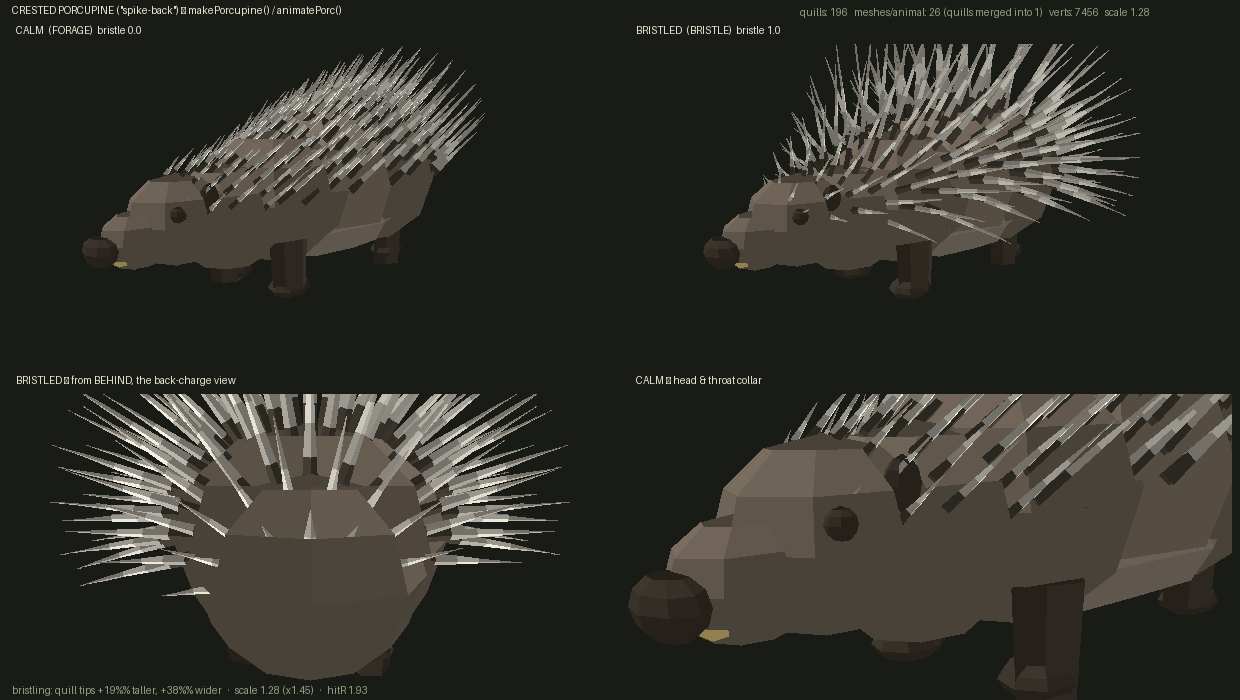
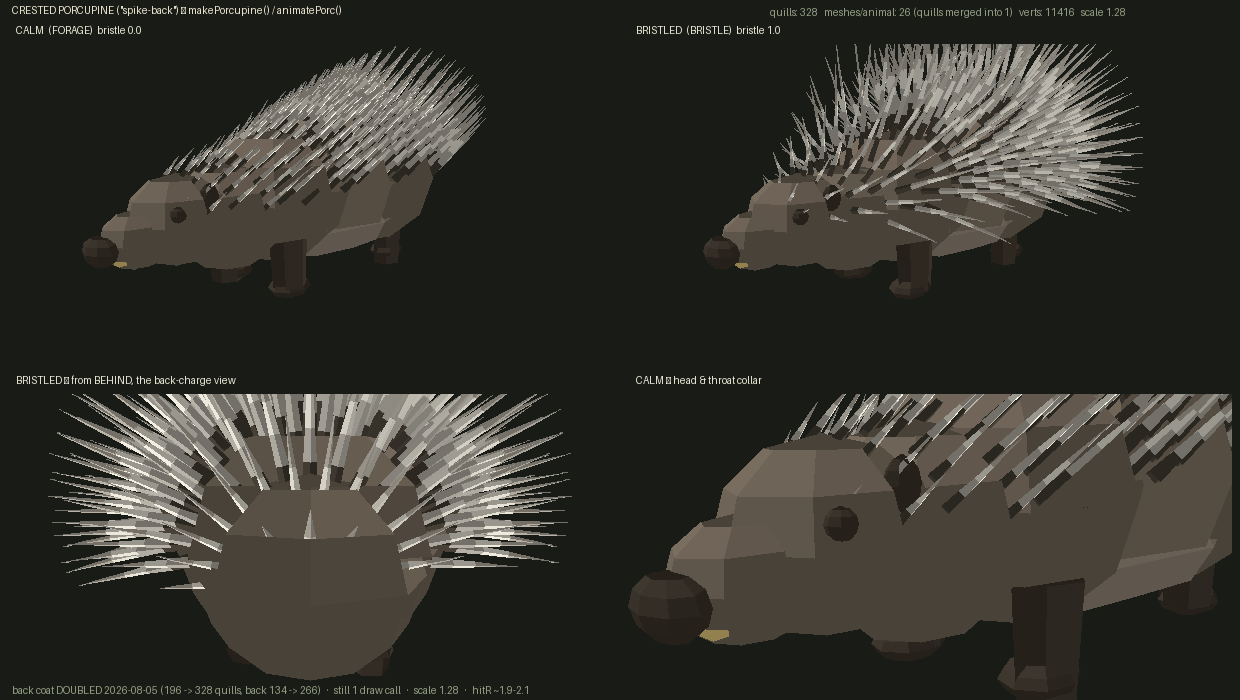
porcupine: double the BACK coat, 196 -> 328 quills, still one draw call
Steven played the 196-quill build and the back still read sparse (crown and
crest were fine), so the increase is confined to the back/sides/rump band:
134 -> 266 over the exact same z span. Doubled on BOTH axes — 10 rows -> 14
and ~x1.41 per row — because doubling one axis alone leaves either visible
bands of bare skin or gaps around the circumference.

The merged-coat strategy is what makes this cheap to keep saying yes to:
still 1 draw call, still 26 meshes/animal. Worst case (all six bristling at
60fps) goes 2.75% -> 4.41% of frame budget, linear in quill count; calm is
still free. Bounding-sphere x1.35 re-verified rather than assumed — flaring
rotates quills without lengthening them, so 1.0036 would do.

Drive-by: deleted a stale duplicated QUILL_BANDS comment that claimed SEVEN
rings next to the paragraph that correctly says six.

diff --git a/index.html b/index.html
@@ -2033,13 +2033,6 @@ const PORC = {
 // ⚠ keep=true on BOTH halves: this pair is a module singleton like FLASH_MAT, not per-animal
 // state, so disposeObject3D must never free it out from under the other five porcupines.
 // (Same rule, same reason, as the shared Sprite geometry the HP bars rely on.)
-// ⚠ SEVEN rings, not five, and the flat runs are DOUBLED UP. Vertex colours are Gouraud-
-// interpolated up the shaft, so any colour given a single ring averages away into its
-// neighbours — the first cut of this read as a uniformly pale needle with a dirty root. A
-// value only holds if it spans a whole SEGMENT, i.e. two adjacent rings of the same colour.
-// Hence: solid dark root, solid cream shaft, one dark band, and a solid PALE OUTER THIRD.
-// The pale tip is the half that matters — it is what separates a quill from the dark pelt
-// behind it at any distance you actually fight this animal from.
 // ⚠ SIX rings, and the flat runs are DOUBLED UP. Vertex colours are Gouraud-interpolated up
 // the shaft, so any colour given a single ring averages away into its neighbours — an early
 // cut read as a uniformly pale needle with a dirty root. A value only holds if it spans a
@@ -2050,7 +2043,7 @@ const QUILL_BANDS = [0x120f0b, 0x120f0b, 0xf0e6cc, 0xefe4c8, 0x171009, 0xf7f0dc]
 // The TEMPLATE quill: radius 1, height 1, root at y=0, tip at y=1. Never added to a scene and
 // never disposed — it is a stamp that makePorcupine copies vertices out of, not a live asset.
 // 4 sides × 5 stacks, no end caps: 30 verts / 40 tris. At the size a quill occupies on screen
-// 4 sides is indistinguishable from 8, and it is multiplied by ~190 per animal.
+// 4 sides is indistinguishable from 8, and it is multiplied by ~330 per animal.
 const QUILL_TPL = (function(){
   const g = new THREE.ConeGeometry(1, 1, 4, 5, true);
   g.translate(0, 0.5, 0);
@@ -2066,10 +2059,14 @@ const QUILL_MAT = new THREE.MeshLambertMaterial({vertexColors:true});
 QUILL_MAT.userData.keep = true;
 
 // ⚠ THE WHOLE QUILL FIELD IS **ONE MESH**, not one mesh per quill.
-// Steven asked for the animal to be *covered* — ~190 quills instead of 64. At one mesh each
-// that is 190 draw calls per animal and 1,140 for a sextet, which is not affordable next to a
+// Steven asked for the animal to be *covered* — ~330 quills instead of 64. At one mesh each
+// that is 330 draw calls per animal and ~2,000 for a sextet, which is not affordable next to a
 // scene that already runs ~3,800. So the quills are stamped into a single merged BufferGeometry:
-// **1 draw call for the entire coat**, and the count becomes essentially free.
+// **1 draw call for the entire coat**, and the count becomes essentially free. THIS is what
+// makes "just add more quills" a cheap request to keep saying yes to — the 2026-08-05 back pass
+// went 196 → 328 for no extra draw calls at all.
+// ⚠ The merged index buffer is a **Uint16Array**, so the whole coat is capped at 65535/30 =
+// **2,184 quills**. Far away, but it is a silent wrap rather than an error if it is ever passed.
 //
 // The cost of merging is that a quill can no longer be posed by rotating its own Group. But the
 // bristle pose is a pure function of ONE scalar, so both extremes are baked at build time
@@ -2212,16 +2209,31 @@ function makePorcupine(x, z){
   row( 0.54,11, 0.66, 0.016, 1.02, 1.32, 0.04, false);
   row( 0.42,12, 0.72, 0.017, 1.00, 1.35, 0.05, true);
   // BACK, SIDES AND RUMP — the thick banded quills, densest and longest over the hips.
-  row( 0.28,13, 0.52, 0.023, 0.96, 1.38, 0.04, false);
-  row( 0.14,14, 0.58, 0.025, 0.94, 1.40, 0.04, true);
-  row( 0.00,14, 0.63, 0.026, 0.92, 1.42, 0.05, false);
-  row(-0.14,15, 0.68, 0.027, 0.90, 1.44, 0.05, true);
-  row(-0.29,15, 0.72, 0.028, 0.90, 1.45, 0.05, false);
-  row(-0.43,15, 0.74, 0.028, 0.90, 1.45, 0.05, true);
-  row(-0.57,15, 0.73, 0.028, 0.91, 1.44, 0.05, false);
-  row(-0.70,13, 0.66, 0.027, 0.94, 1.40, 0.04, true);
-  row(-0.82,11, 0.54, 0.025, 0.99, 1.34, 0.04, false);
-  row(-0.92, 9, 0.40, 0.023, 1.06, 1.26, 0.03, true);
+  // ⚠ 2026-08-05, Steven played the 196-quill build and still read the BACK as sparse
+  // (crown and crest were fine). Density here is DOUBLED — 134 → 266 quills over the exact
+  // same z span and the same thMax wrap, so it is genuinely twice the coat on the same body,
+  // not a bigger coat. ⚠ Doubled on BOTH axes rather than one: 10 rows → 14 (z spacing 0.135
+  // → 0.092) AND ~×1.41 quills per row. Doubling only the per-row count leaves the rows as
+  // visible bands with bare skin between them; doubling only the rows leaves visible gaps
+  // around the circumference. √2 on each keeps the spacing isotropic, which is what actually
+  // reads as fur rather than as a comb.
+  // ⚠ The stagger flag MUST keep alternating down this list — with rows this close together,
+  // un-staggered neighbours line the quills up into columns (corduroy) far more obviously
+  // than they did at half the density.
+  row( 0.28,18, 0.520, 0.0230, 0.96, 1.38, 0.04, false);
+  row( 0.19,19, 0.555, 0.0240, 0.95, 1.39, 0.04, true);
+  row( 0.10,20, 0.585, 0.0250, 0.94, 1.40, 0.04, false);
+  row( 0.00,20, 0.630, 0.0260, 0.92, 1.42, 0.05, true);
+  row(-0.09,21, 0.655, 0.0265, 0.91, 1.43, 0.05, false);
+  row(-0.18,21, 0.685, 0.0270, 0.90, 1.44, 0.05, true);
+  row(-0.28,21, 0.715, 0.0280, 0.90, 1.45, 0.05, false);
+  row(-0.37,21, 0.730, 0.0280, 0.90, 1.45, 0.05, true);
+  row(-0.46,21, 0.740, 0.0280, 0.90, 1.45, 0.05, false);
+  row(-0.55,20, 0.740, 0.0280, 0.90, 1.45, 0.05, true);
+  row(-0.64,19, 0.720, 0.0275, 0.90, 1.44, 0.05, false);
+  row(-0.73,17, 0.650, 0.0270, 0.93, 1.41, 0.04, true);
+  row(-0.83,15, 0.535, 0.0250, 0.98, 1.35, 0.04, false);
+  row(-0.92,13, 0.400, 0.0230, 1.06, 1.26, 0.03, true);
   // RATTLE QUILLS on the stub tail — short, fat and hollow, and what a real one shakes as a
   // warning before it ever backs into you.
   row(-1.01, 7, 0.20, 0.042, 1.15, 1.20, 0.02, false);
@@ -2273,7 +2285,7 @@ function makePorcupine(x, z){
   // when its own bounds no longer contain it — frustum culling tests this sphere, not the mesh.
   qgeo.computeBoundingSphere(); qgeo.boundingSphere.radius *= 1.35;
   const quillMesh = new THREE.Mesh(qgeo, QUILL_MAT);
-  // ⚠ castShadow deliberately OFF. A needle casts a shadow you cannot see, and ~190 of them
+  // ⚠ castShadow deliberately OFF. A needle casts a shadow you cannot see, and ~330 of them
   // per animal × 6 animals re-rendered into the shadow map every frame buys nothing.
   quillMesh.frustumCulled = true; g.add(quillMesh);
 

diff --git a/dossiers/render_porcupine.py b/dossiers/render_porcupine.py
@@ -116,16 +116,24 @@ ROWS = [(1.00, 5, 0.13, 0.011, 0.80, 0.95, 0.02, False),    # face & crown
         (0.66, 11, 0.52, 0.015, 1.00, 1.30, 0.04, True),    # the crest
         (0.54, 11, 0.66, 0.016, 1.02, 1.32, 0.04, False),
         (0.42, 12, 0.72, 0.017, 1.00, 1.35, 0.05, True),
-        (0.28, 13, 0.52, 0.023, 0.96, 1.38, 0.04, False),   # back, sides and rump
-        (0.14, 14, 0.58, 0.025, 0.94, 1.40, 0.04, True),
-        (0.00, 14, 0.63, 0.026, 0.92, 1.42, 0.05, False),
-        (-0.14, 15, 0.68, 0.027, 0.90, 1.44, 0.05, True),
-        (-0.29, 15, 0.72, 0.028, 0.90, 1.45, 0.05, False),
-        (-0.43, 15, 0.74, 0.028, 0.90, 1.45, 0.05, True),
-        (-0.57, 15, 0.73, 0.028, 0.91, 1.44, 0.05, False),
-        (-0.70, 13, 0.66, 0.027, 0.94, 1.40, 0.04, True),
-        (-0.82, 11, 0.54, 0.025, 0.99, 1.34, 0.04, False),
-        (-0.92, 9, 0.40, 0.023, 1.06, 1.26, 0.03, True),
+        # ⚠ back/sides/rump DOUBLED 2026-08-05 (134 -> 266 quills over the same z span):
+        # 10 rows -> 14 AND ~x1.41 per row, i.e. sqrt(2) on each axis so the spacing stays
+        # isotropic. Face/crown, crest and tail rattle are untouched — Steven read only the
+        # BACK as sparse.
+        (0.28, 18, 0.520, 0.0230, 0.96, 1.38, 0.04, False),  # back, sides and rump
+        (0.19, 19, 0.555, 0.0240, 0.95, 1.39, 0.04, True),
+        (0.10, 20, 0.585, 0.0250, 0.94, 1.40, 0.04, False),
+        (0.00, 20, 0.630, 0.0260, 0.92, 1.42, 0.05, True),
+        (-0.09, 21, 0.655, 0.0265, 0.91, 1.43, 0.05, False),
+        (-0.18, 21, 0.685, 0.0270, 0.90, 1.44, 0.05, True),
+        (-0.28, 21, 0.715, 0.0280, 0.90, 1.45, 0.05, False),
+        (-0.37, 21, 0.730, 0.0280, 0.90, 1.45, 0.05, True),
+        (-0.46, 21, 0.740, 0.0280, 0.90, 1.45, 0.05, False),
+        (-0.55, 20, 0.740, 0.0280, 0.90, 1.45, 0.05, True),
+        (-0.64, 19, 0.720, 0.0275, 0.90, 1.44, 0.05, False),
+        (-0.73, 17, 0.650, 0.0270, 0.93, 1.41, 0.04, True),
+        (-0.83, 15, 0.535, 0.0250, 0.98, 1.35, 0.04, False),
+        (-0.92, 13, 0.400, 0.0230, 1.06, 1.26, 0.03, True),
         (-1.01, 7, 0.20, 0.042, 1.15, 1.20, 0.02, False)]   # tail rattle quills
 
 
@@ -231,10 +239,11 @@ def sheet(path):
         dr.text(((i % 2)*pw + 16, 24 + (i//2)*(PH + 30)), label, fill=(235, 232, 214))
     dr.text((12, 4), 'CRESTED PORCUPINE ("spike-back") — makePorcupine() / animatePorc()',
             fill=(238, 231, 210))
-    dr.text((W - 440, 6), 'quills: %d   meshes/animal: %d (quills merged into 1)   verts: 7456   scale %.2f'
+    dr.text((W - 470, 6), 'quills: %d   meshes/animal: %d (quills merged into 1)   verts: 11416   scale %.2f'
             % (len(QUILLS), BODY_MESHES + 1, SCALE), fill=(150, 158, 132))
     dr.text((12, H - 16),
-            'bristling: quill tips +19%% taller, +38%% wider   ·   scale 1.28 (x1.45)   ·   hitR 1.93',
+            'back coat DOUBLED 2026-08-05 (196 -> 328 quills, back 134 -> 266)   ·   still 1 draw call'
+            '   ·   scale 1.28   ·   hitR ~1.9-2.1',
             fill=(150, 158, 132))
     img.save(path)
     return path

diff --git a/CONTEXT.md b/CONTEXT.md
@@ -3023,3 +3023,52 @@ Steven: *"currently way too big, shrink to 2× porcupine"*, with an explicit tar
   smaller body rather than a separate tuning decision.
 - `attachHealthBar` divides the group scale back out, so the floating HP bar re-sized itself with no edit;
   its stale "gorilla 1.36" comment was corrected in the same commit.
+
+### 🦔 Porcupine — back coat DOUBLED, 196 → 328 quills
+Steven played the 196-quill build and still read the **back** as sparse; crown and crest were fine. So the
+increase is confined to the back/sides/rump band and everything else is byte-identical.
+- **Back 134 → 266 quills** over the **exact same z span** (0.28 → −0.92) and the same `thMax` wrap — twice
+  the coat on the same body, not a bigger coat. Face/crown 21, crest 34 and the 7 tail rattle quills are
+  untouched. Total **328**.
+- ⚠ **Doubled on BOTH axes, not one.** 10 rows → **14** (z spacing 0.135 → 0.092) **and** ~**×1.41 quills
+  per row**, i.e. √2 on each. Doubling only the per-row count leaves the rows as visible bands with bare
+  skin between them; doubling only the row count leaves gaps around the circumference. √2 on each keeps the
+  spacing isotropic, which is what reads as fur rather than as a comb.
+- ⚠ **The stagger flag has to keep alternating down the row list.** At this spacing un-staggered neighbours
+  line the quills into columns (corduroy) far more obviously than they did at half the density.
+- **Still ONE merged mesh — 1 draw call for the whole coat**, 26 meshes per animal, unchanged. That is the
+  point of the merge: the 2026-08-04 pass went 64 → 196 and this one 196 → 328 with **zero** extra draw
+  calls. Verts/animal 7,456 → **11,416**; quill tris 7,840 → 13,120.
+- ⚠ **Frame budget — the polish session's 2.75% does NOT still hold; it is now 4.41%.** Measured with the
+  real re-bake gate at the real 60 fps `dt`, six porcupines **all bristling at once** (the worst case, and
+  only the player can provoke one): **0.458 ms → 0.735 ms/frame = 4.41% of 16.67 ms**, 1.96 of a possible 6
+  re-bakes per frame. Dead **linear** in quill count (328/196 × 0.458 = 0.766 predicted). Six **calm** ones
+  cost **0.0066 ms (0.04%)** — the `BAKE_EPS` short-circuit means a calm coat is still free at any count.
+  ⚠ **Measure at `dt = 1/60`, not at `animate()`'s 0.05 clamp.** The quiver is `sin(swayT*11)`, so a 0.05
+  step advances its phase 3× as far, trips `BAKE_EPS` on ~3.7 of 6 animals instead of ~2.0, and reports
+  **1.43 ms (8.6%)** — a real number for a 50 ms stutter frame, but not the 60 fps cost.
+- ⚠ **Bounding-sphere inflation stays ×1.35 — verified, not assumed.** Flaring rotates quills, it does not
+  lengthen the extremes, so the furthest vertex barely moves: rest radius **1.2202**, furthest **flared**
+  vertex **1.2245**, i.e. the minimum factor that avoids frustum-pop is **1.0036**. ×1.35 gives radius
+  1.6472 and **0.4227 of headroom**. ×1.5 is not needed and would only make culling lazier.
+- **Nothing about the hitbox moved**, because the coat did not grow: 3.32 long × 1.83 tall × 1.98 wide,
+  identical to the 196-quill build. ⚠ Worth knowing while reading `hitR` numbers in this file: `setHitbox`
+  runs **after** `g.rotation.y = P.heading`, so a porcupine's `hitR` depends on its **spawn heading** —
+  ~1.91 axis-aligned to ~2.3 at 45°, mean **2.11**. Pre-existing, deliberately left alone (it feeds spike
+  reach `CONTACT_R + hitR`), but the single quoted "1.93" in earlier notes is one sample, not a constant.
+- **Disposal re-verified, 36 animals** through both `killObj` and the real dead-loop: **936 = 26×36**
+  geometry frees, every merged quill geometry freed **exactly once**, 0 double, 0 never-freed, 0 porcupine
+  groups left in the scene, and the shared `QUILL_TPL` / `QUILL_MAT` **never** freed. 200 s soak of a full
+  sextet through FORAGE/BRISTLE/FLEE: **0 errors, 0 NaN** (quill buffer sampled included).
+- ⚠ **New ceiling worth writing down:** the merged index buffer is a `Uint16Array`, so the coat is capped at
+  65535/30 = **2,184 quills**. Far off, but it would wrap silently rather than throw.
+- Offline sheet regenerated: `dossiers/porcupine_render.png` (`render_porcupine.py`, whose `ROWS` table
+  mirrors the engine's by hand and was updated in the same commit).
+
+### Verified
+13/13 integration tests green (same 13 as the 2026-08-04 baseline, none needed changing — the porcupine
+tests reference HP relatively and assert `damage > 0`), 0 console errors, gorilla stone-wall collision
+driven through the real `gorillaMoveToward` (0 crossings), porcupine disposal + 200 s soak clean.
+⚠ **The in-app Browser pane still cannot render WebGL** — canvas comes back 0×0 and `readPixels` reads
+0 non-zero pixels across a full 2560×1600 frame — so both animals were verified numerically in-page and
+visually through the offline PIL projector, as on every previous mesh session.

diff --git a/dossiers/bestiary.md b/dossiers/bestiary.md
@@ -163,7 +163,8 @@ Thorns are on the **ground** — you're clear of them on a roof, on a wall, or u
 dark-brown and low-slung, its back climbing to a **hunch over the hips**, with a small pig-snouted head carried
 near the ground and a pale band across the throat. It is **covered** in cream-tipped banded quills — crown,
 neck, back, flanks, rump and tail, longest over the hips, with a crest of finer bristles running from between
-the eyes to the shoulders. **It will never start a fight.** Left alone it just trundles about foraging, swaying
+the eyes to the shoulders. *(The coat over the **back** was doubled again on 2026-08-05 — from any angle
+above the waist it is now a solid mass of quills rather than a spiky back.)* **It will never start a fight.** Left alone it just trundles about foraging, swaying
 gently on the spot — it does not hunt, does not track you, and its quills are harmless while they're lying
 flat. **You can walk straight past one.**
 
